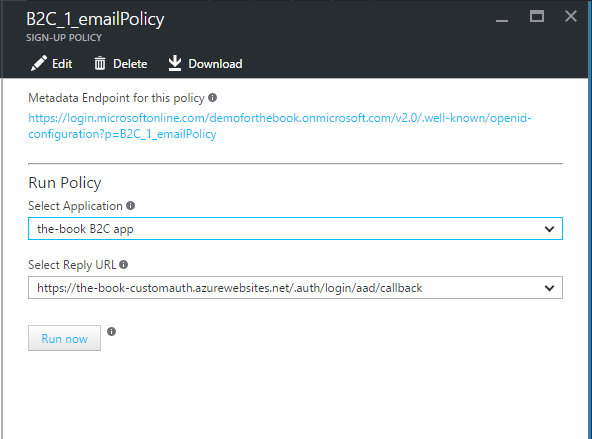
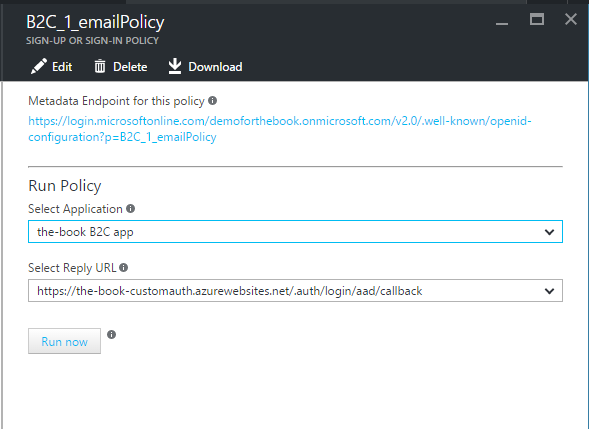
AAD B2C Fixes

diff --git a/docs/authentication.md b/docs/authentication.md
@@ -1753,10 +1753,11 @@ registration to see the **Application ID**:
 ![AAD B2C Create Flow - Create an App Step 3][img49]
 
 You will need the Application ID and App Key (which you copied earlier) later
-on.  The next step is to create a Sign-up policy.  We'll create a policy for
-signing up with an email address and email confirmation:
+on.  The next step is to create a Sign-in/Sign-up policy.  We'll create a policy for
+signing up with an email address and email confirmation, then signing in with
+that email address:
 
-* In the **Settings** blade, click on **Sign-up policies**.
+* In the **Settings** blade, click on **Sign-up or sign-in policies**.
 * Click on the **+ Add** button.
 * Give the policy a name, like **emailPolicy**.
 * Click on **Identity providers**:
@@ -1769,9 +1770,9 @@ signing up with an email address and email confirmation:
   - Click on **Email Addresses** and any other fields you want to provide to
     the application.
   - Click on **OK**
-* Click on **OK** on the **Add policy** blade.
-* Click on the policy you just created.  Make a note of the **Metadata Endpoint
-  for this policy**.
+* Click on **Create** on the **Add policy** blade.
+* Click on the policy you just created.  It will be named something like _B2C_1_emailPolicy_.
+  Make a note of the **Metadata Endpoint for this policy**.
 
   ![AAD B2C Create Flow - Create a Policy][img50]
 
@@ -1795,9 +1796,14 @@ browser to `https://yoursite.azurewebsites.net/.auth/login/aad`:
 ![AAD B2C Login Flow][img52]
 
 If you have done everything right, you should be able to register an account,
-get the email verification code, and finally log in. to get the happy login
-page.  All that is left to do is to configure your app for Azure Active
-Directory Server Flow.
+get the email verification code, and finally log in to get the happy login
+page. 
+
+![AAD B2C Sign Up Flow][img53]
+
+All that is left to do is to configure your app for Azure Active Directory 
+Server Flow.  We did that earlier when discussing the Enterprise Authentication
+flow for the mobile client.
 
 #### Drawbacks of Azure Active Directory B2C
 
@@ -1886,6 +1892,7 @@ the client to support that.
 [img50]: img/ch2/aad-b2c-7.PNG
 [img51]: img/ch2/aad-b2c-8.PNG
 [img52]: img/ch2/aad-b2c-9.PNG
+[img53]: img/ch2/aad-b2c-10.PNG
 
 [int-intro]: firstapp_pc.md
 [int-entauth]: #enterpriseauth
